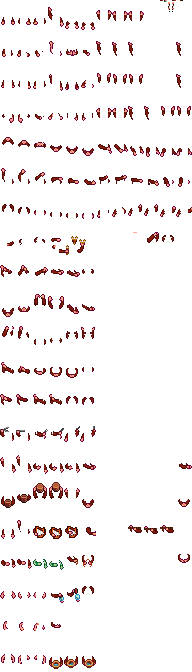
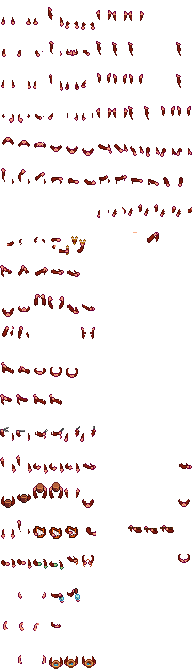
Added colours for naked overlays, the abilty to have sleeves too

diff --git a/Dynamic Naked/Patches/FarmerRendererPatched.cs b/Dynamic Naked/Patches/FarmerRendererPatched.cs
@@ -103,6 +103,11 @@ namespace DynamicBodies.Patches
             if (field == "pants")
             {
                 pbe.pants = -1;//force pants change
+                //Update stored pants colour, darken it
+                if(who.pantsItem.Value != null)
+                {
+                    pbe.paletteCache[16] = changeBrightness(who.pantsColor.Value, new Color(50,50,50), false).ToVector4();
+                }
             }
 
             pbe.dirty = true;
@@ -221,16 +226,49 @@ namespace DynamicBodies.Patches
             if (pbe.dirty)
             {
                 //Check if the texture needs updating
-                if (pbe.shirt != who.GetShirtIndex())
+                if (pbe.shirt != who.GetShirtIndex() || pbe.dirtyLayers["shirt"])
                 {
                     pbe.shirt = who.GetShirtIndex();
                     if (who.shirtItem.Value == null)
                     {
                         pbe.sleeveLength = "Sleeveless";
+                        if(pbe.nakedUpper.CheckForOption("sleeve short"))
+                        {
+                            pbe.sleeveLength = "Short";
+                        }
+                        if (pbe.nakedUpper.CheckForOption("sleeve"))
+                        {
+                            pbe.sleeveLength = "Normal";
+                        }
+                        if (pbe.nakedUpper.CheckForOption("sleeve long"))
+                        {
+                            pbe.sleeveLength = "Long";
+                        }
                     }
                     else
                     {
-                        pbe.sleeveLength = ModEntry.AssignShirtLength(who.shirtItem.Value as Clothing, who.IsMale);
+                        if (who.bathingClothes.Value && who.modData.ContainsKey("DB.bathers") && who.modData["DB.bathers"] == "false")
+                        {
+
+                            pbe.sleeveLength = "Sleeveless";
+                            if (pbe.nakedUpper.CheckForOption("sleeve short"))
+                            {
+                                pbe.sleeveLength = "Short";
+                            }
+                            if (pbe.nakedUpper.CheckForOption("sleeve"))
+                            {
+                                pbe.sleeveLength = "Normal";
+                            }
+                            if (pbe.nakedUpper.CheckForOption("sleeve long"))
+                            {
+                                pbe.sleeveLength = "Long";
+                            }
+
+                        }
+                        else
+                        {
+                            pbe.sleeveLength = ModEntry.AssignShirtLength(who.shirtItem.Value as Clothing, who.IsMale);
+                        }
                     }
 
                     if (who.shirtItem.Value != null)
@@ -340,12 +378,15 @@ namespace DynamicBodies.Patches
                                 break;
                         }
                         animoffset = new Vector2((float)(FarmerRenderer.featureXOffsetPerFrame[currentFrame] * 4), (float)(FarmerRenderer.featureYOffsetPerFrame[currentFrame] * 4) + (float)(int)__instance.heightOffset.Value * scale);
+
                     }
                     float layerOffset = ((who.FarmerSprite.CurrentAnimationFrame.frame == 5) ? 0.00096f : 9.6E-08f);
 
                     if (!FarmerRenderer.isDrawingForUI && (bool)who.swimming.Value)
                     {
                         //don't draw it in the water
+                        overlay_rect.Height = 16;
+                        b.Draw(nakedUpperTexture, position + origin + ___positionOffset + animoffset, overlay_rect, overrideColor, rotation, origin, 4f * scale, flipped ? SpriteEffects.FlipHorizontally : SpriteEffects.None, layerDepth + layerOffset);
                     }
                     else
                     {
@@ -353,14 +394,10 @@ namespace DynamicBodies.Patches
                         if (FarmerRenderer.isDrawingForUI)
                         {
                             //Change the frame for UI version
-                            sourceRect.X = 0;
-                            sourceRect.Y = 0;
-                            b.Draw(nakedUpperTexture, position + origin + ___positionOffset, overlay_rect, overrideColor, rotation, origin, 4f * scale, flipped ? SpriteEffects.FlipHorizontally : SpriteEffects.None, layerDepth + layerOffset);
+                            overlay_rect.Y = 0;
                         }
-                        else
-                        {
-                            b.Draw(nakedUpperTexture, position + origin + ___positionOffset + animoffset, overlay_rect, overrideColor, rotation, origin, 4f * scale, flipped ? SpriteEffects.FlipHorizontally : SpriteEffects.None, layerDepth + layerOffset);
-                        }
+                        b.Draw(nakedUpperTexture, position + origin + ___positionOffset + animoffset, overlay_rect, overrideColor, rotation, origin, 4f * scale, flipped ? SpriteEffects.FlipHorizontally : SpriteEffects.None, layerDepth + layerOffset);
+                        
                     }
                 }
             }
@@ -1001,6 +1038,8 @@ namespace DynamicBodies.Patches
 
         private static void UpdateShirtPalette(Farmer who, PlayerBaseExtended pbe)
         {
+            if (who.shirtItem.Get() == null) return; //Shirt was removed so no need to change the colour
+
             Color[] shirtData = new Color[FarmerRenderer.shirtsTexture.Bounds.Width * FarmerRenderer.shirtsTexture.Bounds.Height];
             FarmerRenderer.shirtsTexture.GetData(shirtData);
 

diff --git a/Dynamic Naked/AdjustedVanillaMethods.cs b/Dynamic Naked/AdjustedVanillaMethods.cs
@@ -352,6 +352,21 @@ namespace DynamicBodies
                 sourceRect.Offset(96, 0);
             }
 
+            if (who.bathingClothes.Value && who.modData.ContainsKey("DB.bathers") && who.modData["DB.bathers"] == "false")
+            {
+                PlayerBaseExtended pbe = PlayerBaseExtended.Get(who);
+                if (pbe.nakedUpper.CheckForOption("sleeve short") || pbe.nakedUpper.CheckForOption("sleeve")
+                    || pbe.nakedUpper.CheckForOption("sleeve long"))
+                {
+                    sourceRect.Offset(0, -574);//Use the normal arms
+                }
+                if (FarmerRenderer.isDrawingForUI)
+                {
+                    //Weird offset issue
+                    //_positionOffset.Y -= 8;
+                }
+            }
+
             b.Draw(_backTexture, position + origin + _positionOffset + who.armOffset, sourceRect, overrideColor, rotation, origin, 4f * scale, animationFrame.flip ? SpriteEffects.FlipHorizontally : SpriteEffects.None, layerDepth + arm_layer_offset);
         }
 
@@ -370,7 +385,24 @@ namespace DynamicBodies
                 sourceRect.Offset(96, 0);
             }
 
-			b.Draw(_baseTexture, position + origin + _positionOffset + who.armOffset, sourceRect, overrideColor, rotation, origin, 4f * scale, animationFrame.flip ? SpriteEffects.FlipHorizontally : SpriteEffects.None, layerDepth + arm_layer_offset);
+
+            if (who.bathingClothes.Value && who.modData.ContainsKey("DB.bathers") && who.modData["DB.bathers"] == "false")
+            {
+                PlayerBaseExtended pbe = PlayerBaseExtended.Get(who);
+                if (pbe.nakedUpper.CheckForOption("sleeve short") || pbe.nakedUpper.CheckForOption("sleeve")
+                    || pbe.nakedUpper.CheckForOption("sleeve long"))
+                {
+                    sourceRect.Offset(0, -574);//Use the normal arms
+                }
+                if (FarmerRenderer.isDrawingForUI)
+                {
+                    //Weird offset issue
+                    //_positionOffset.Y -= 8;
+                }
+            }
+            
+
+            b.Draw(_baseTexture, position + origin + _positionOffset + who.armOffset, sourceRect, overrideColor, rotation, origin, 4f * scale, animationFrame.flip ? SpriteEffects.FlipHorizontally : SpriteEffects.None, layerDepth + arm_layer_offset);
 			if (!who.usingSlingshot || !(who.CurrentTool is Slingshot))
 			{
 				return;

diff --git a/Dynamic Naked/Data/PlayerBaseExtended.cs b/Dynamic Naked/Data/PlayerBaseExtended.cs
@@ -60,6 +60,7 @@ namespace DynamicBodies.Data
 
             paletteCache = GetBasePalette();
             paletteCache[3] = Color.Transparent.ToVector4();
+            paletteCache[16] = FarmerRendererPatched.changeBrightness(who.pantsColor.Value, new Color(50, 50, 50), false).ToVector4();
 
             body = new BodyPartStyle("body");
 
@@ -561,7 +562,7 @@ namespace DynamicBodies.Data
                 if (texture != null)
                 {
                     //recalculate the skin colours on the overlay
-                    nakedUpper.texture = ApplyPaletteColors(texture);
+                    nakedUpper.texture = ApplyPaletteColors(ApplyTwoColors(texture, new Color(paletteCache[0]), new Color(paletteCache[16])));
                 }
             }
             if (nakedUpper.option == "Default")
@@ -581,16 +582,19 @@ namespace DynamicBodies.Data
             if (nakedLower.texture == null && nakedLower.option != "Default")
             {
                 Texture2D texture = nakedLower.provider.ModContent.Load<Texture2D>($"assets\\nakedLower\\{nakedLower.file}.png");
-                
-                if (nakedLower.CheckForOption("no skin"))
+
+                if (texture != null)
                 {
-                    //Don't calculate new colours, it doesn't have them
-                    nakedLower.texture = texture;
-                }
-                else
-                {
-                    //recalculate the skin colours on the overlay
-                    nakedLower.texture = ApplyPaletteColors(texture);
+                    if (nakedLower.CheckForOption("no skin"))
+                    {
+                        //Don't calculate skin colours, it doesn't have them
+                        nakedLower.texture = ApplyTwoColors(texture, new Color(paletteCache[0]), new Color(paletteCache[16]));
+                    }
+                    else
+                    {
+                        //recalculate the skin colours on the overlay
+                        nakedLower.texture = ApplyPaletteColors(ApplyTwoColors(texture, new Color(paletteCache[0]), new Color(paletteCache[16])));
+                    }
                 }
             }
             if (nakedLower.option == "Default")

diff --git a/Dynamic Naked/ModEntry.cs b/Dynamic Naked/ModEntry.cs
@@ -214,6 +214,7 @@ namespace DynamicBodies
             __instance.boots.fieldChangeEvent += delegate { FarmerRendererPatched.FieldChanged("shoes", __instance); };
             __instance.shirtItem.fieldChangeEvent += delegate { FarmerRendererPatched.FieldChanged("shirt", __instance); };
             __instance.pantsItem.fieldChangeEvent += delegate { FarmerRendererPatched.FieldChanged("pants", __instance); };
+            __instance.bathingClothes.fieldChangeEvent += delegate { FarmerRendererPatched.FieldChanged("shirt", __instance); };
         }
 
 

diff --git a/Dynamic Naked/Data/ModConfig.cs b/Dynamic Naked/Data/ModConfig.cs
@@ -11,5 +11,6 @@ namespace DynamicBodies.Data
         public bool freecustomisation = false;
         public bool debugmsgs = false;
         public bool adjustmaps = true;
+        public bool bathhouse = true;
     }
 }

diff --git a/Dynamic Naked/docs/author-guide/bodies.md b/Dynamic Naked/docs/author-guide/bodies.md
@@ -103,7 +103,8 @@ Naked Overlays allows the player to decide how their character will look when th
 have pants or shirts equipped. The player can change the option of whether these show
 when swimming/bathing ingame in the tailoring menu.
 
-As such these overlays could be NSFW using the [extended skin colors](color-palette.md), they could be censor
+As such these overlays could be NSFW using the [extended skin colors](color-palette.md),
+or using [greys/magentas for shirt/pant](trinkets.md#recoloring-notes), they could be censor
 squares/items or they might just be swimming outfits or underwear. There are two versions,
 one for the upper body and one for the lower body which shown when shirt or pants aren't
 present.
@@ -140,7 +141,8 @@ smaller 16x128 image using sprites for facing down, right, up and left. The fold
             ...
          ...
 ```
-Not including any options, this will default to the 96x672 pixel full animation.
+Not including "no animation", this will default to the 96x672 pixel full animation. You can
+also specify "sleeve short"/"sleeve"/"sleeve long" to have sleeves on the overlay.
 
 ### Naked Lower Overlays
 The naked lower overlay option draws similar to pants. These are an image

diff --git a/Dynamic Naked/docs/author-guide/color-palette.md b/Dynamic Naked/docs/author-guide/color-palette.md
@@ -31,7 +31,7 @@ Here are all 25 colors and a brief explanation of what they are for.
 | Hex: `#5b1f24` | Shoes medium dark |
 | Hex: `#77291a` | Shoes medium light |
 | Hex: `#ad471b` | Shoes light |
-| &nbsp; | Unassigned transparent |
+| Hex: `transparent` | Pants color (used internally only) |
 | Hex: `#4a4542` | Eyelash/eyebrow color - new color, make sure to draw over those eyelashes with this |
 | Hex: `#fffdfc` | Sclera light (whites of the eyes) |
 | Hex: `#bea8a8` | Sclera dark |
